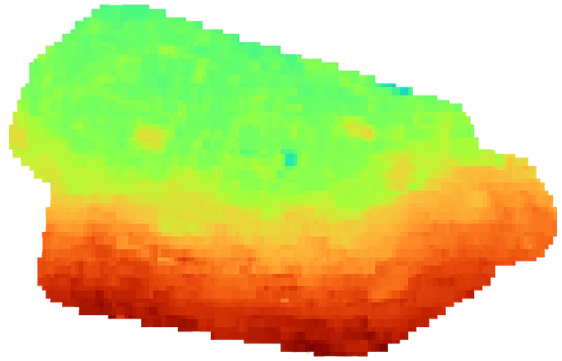
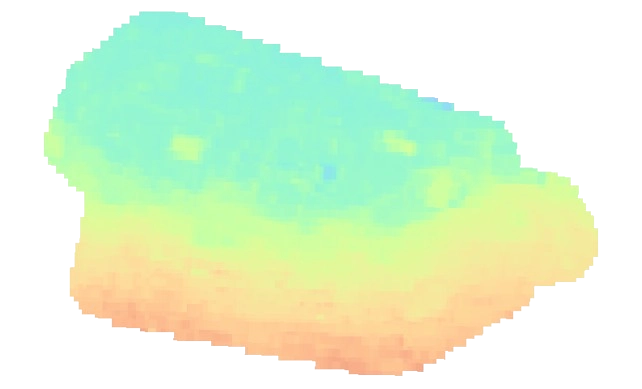
change DEM image

diff --git a/src/components/Maps/Maps.jsx b/src/components/Maps/Maps.jsx
@@ -239,10 +239,10 @@ export const Maps = () => {
           </LayersControl.Overlay>
            <LayersControl.Overlay name="DEM (0-132m)">
             <ImageOverlay
-              url="./../../img/webp/DEM.webp"
+              url="https://raw.githubusercontent.com/holiaka/Contamination-maps-Kamyanske/main/src/layers/DEM.webp"
               bounds={[
-                [48.492114, 34.658991],
-                [48.5071325, 34.694015],
+                [48.49095, 34.6558],
+                [48.508, 34.69675],
               ]}
               opacity={0.5}
             ></ImageOverlay>
